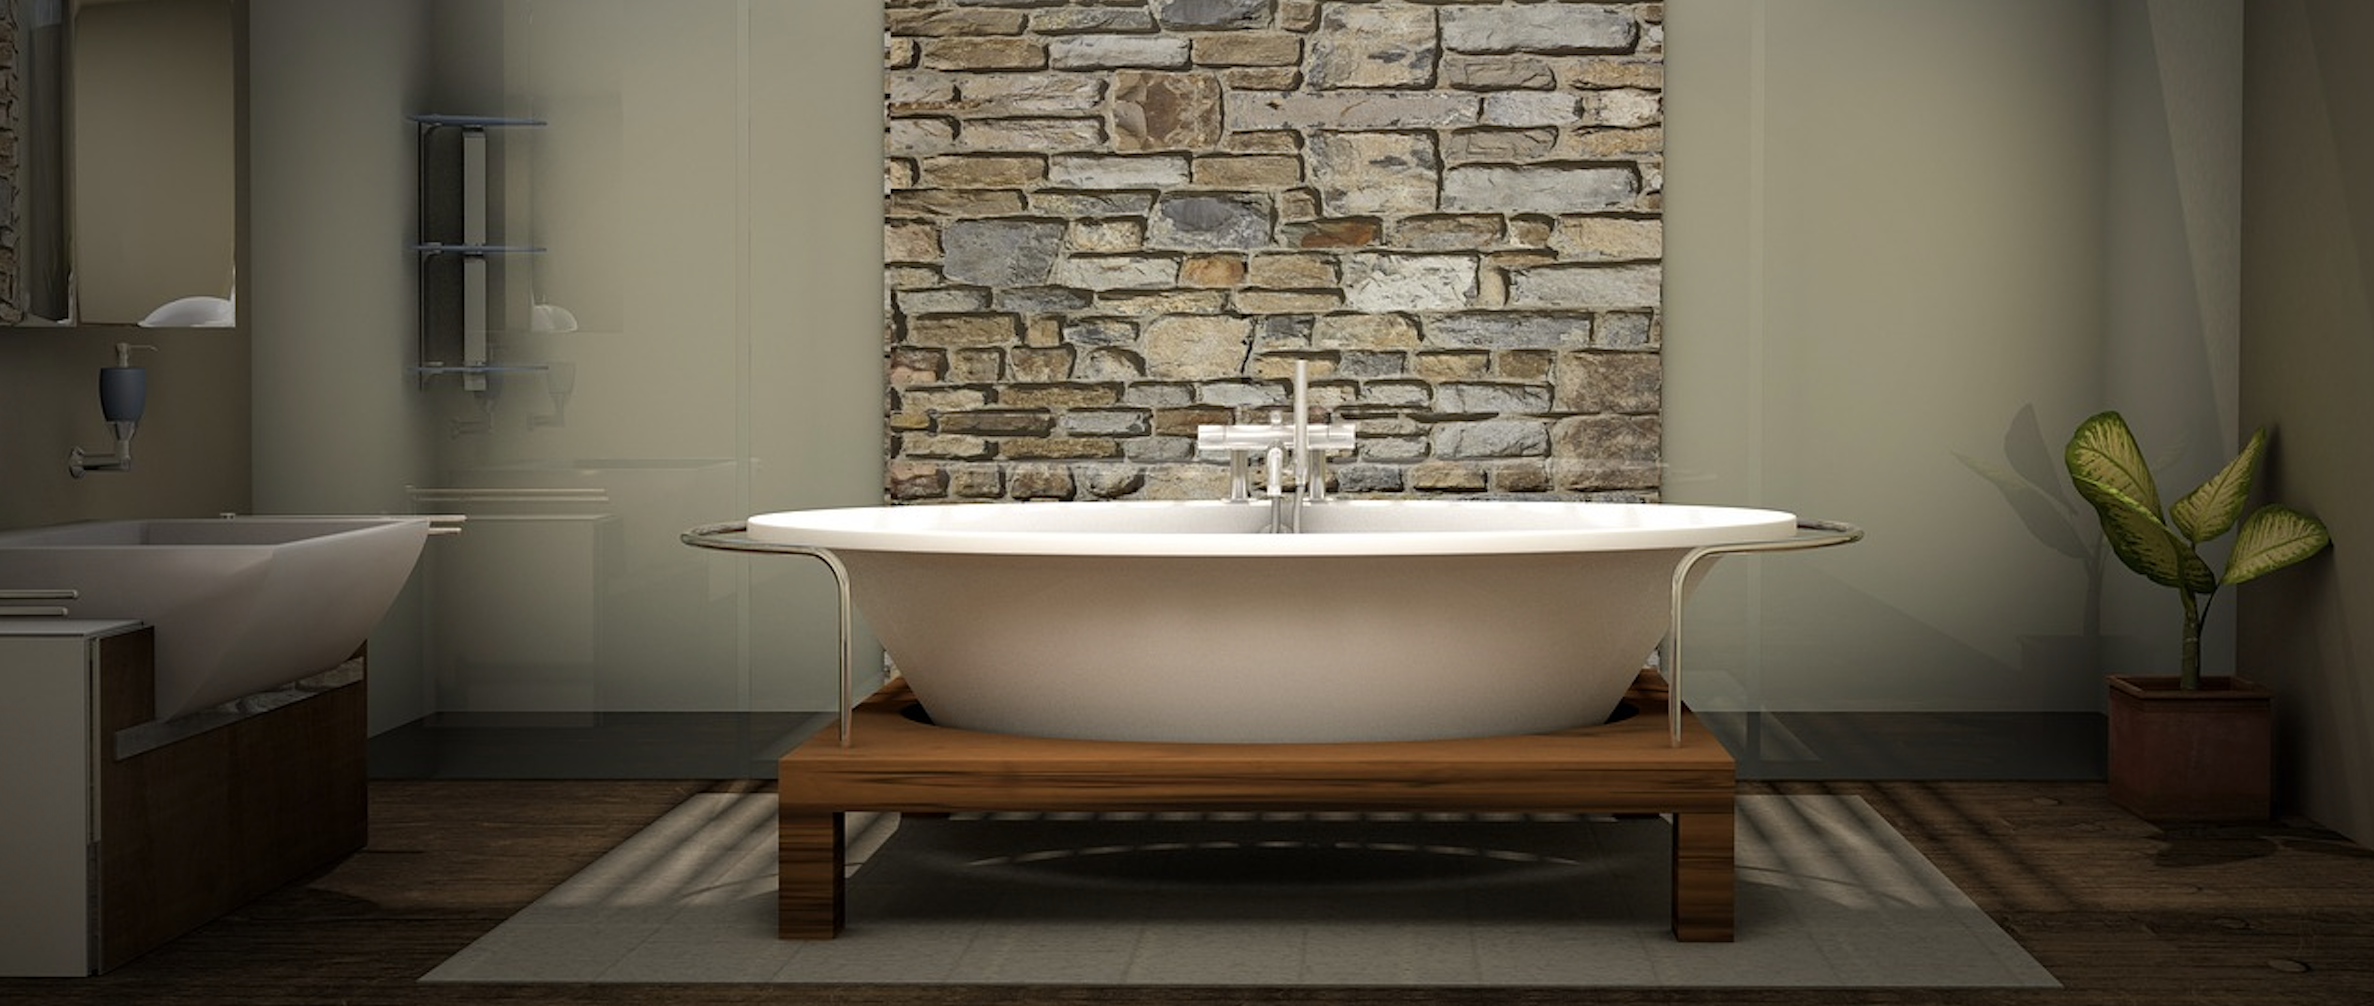
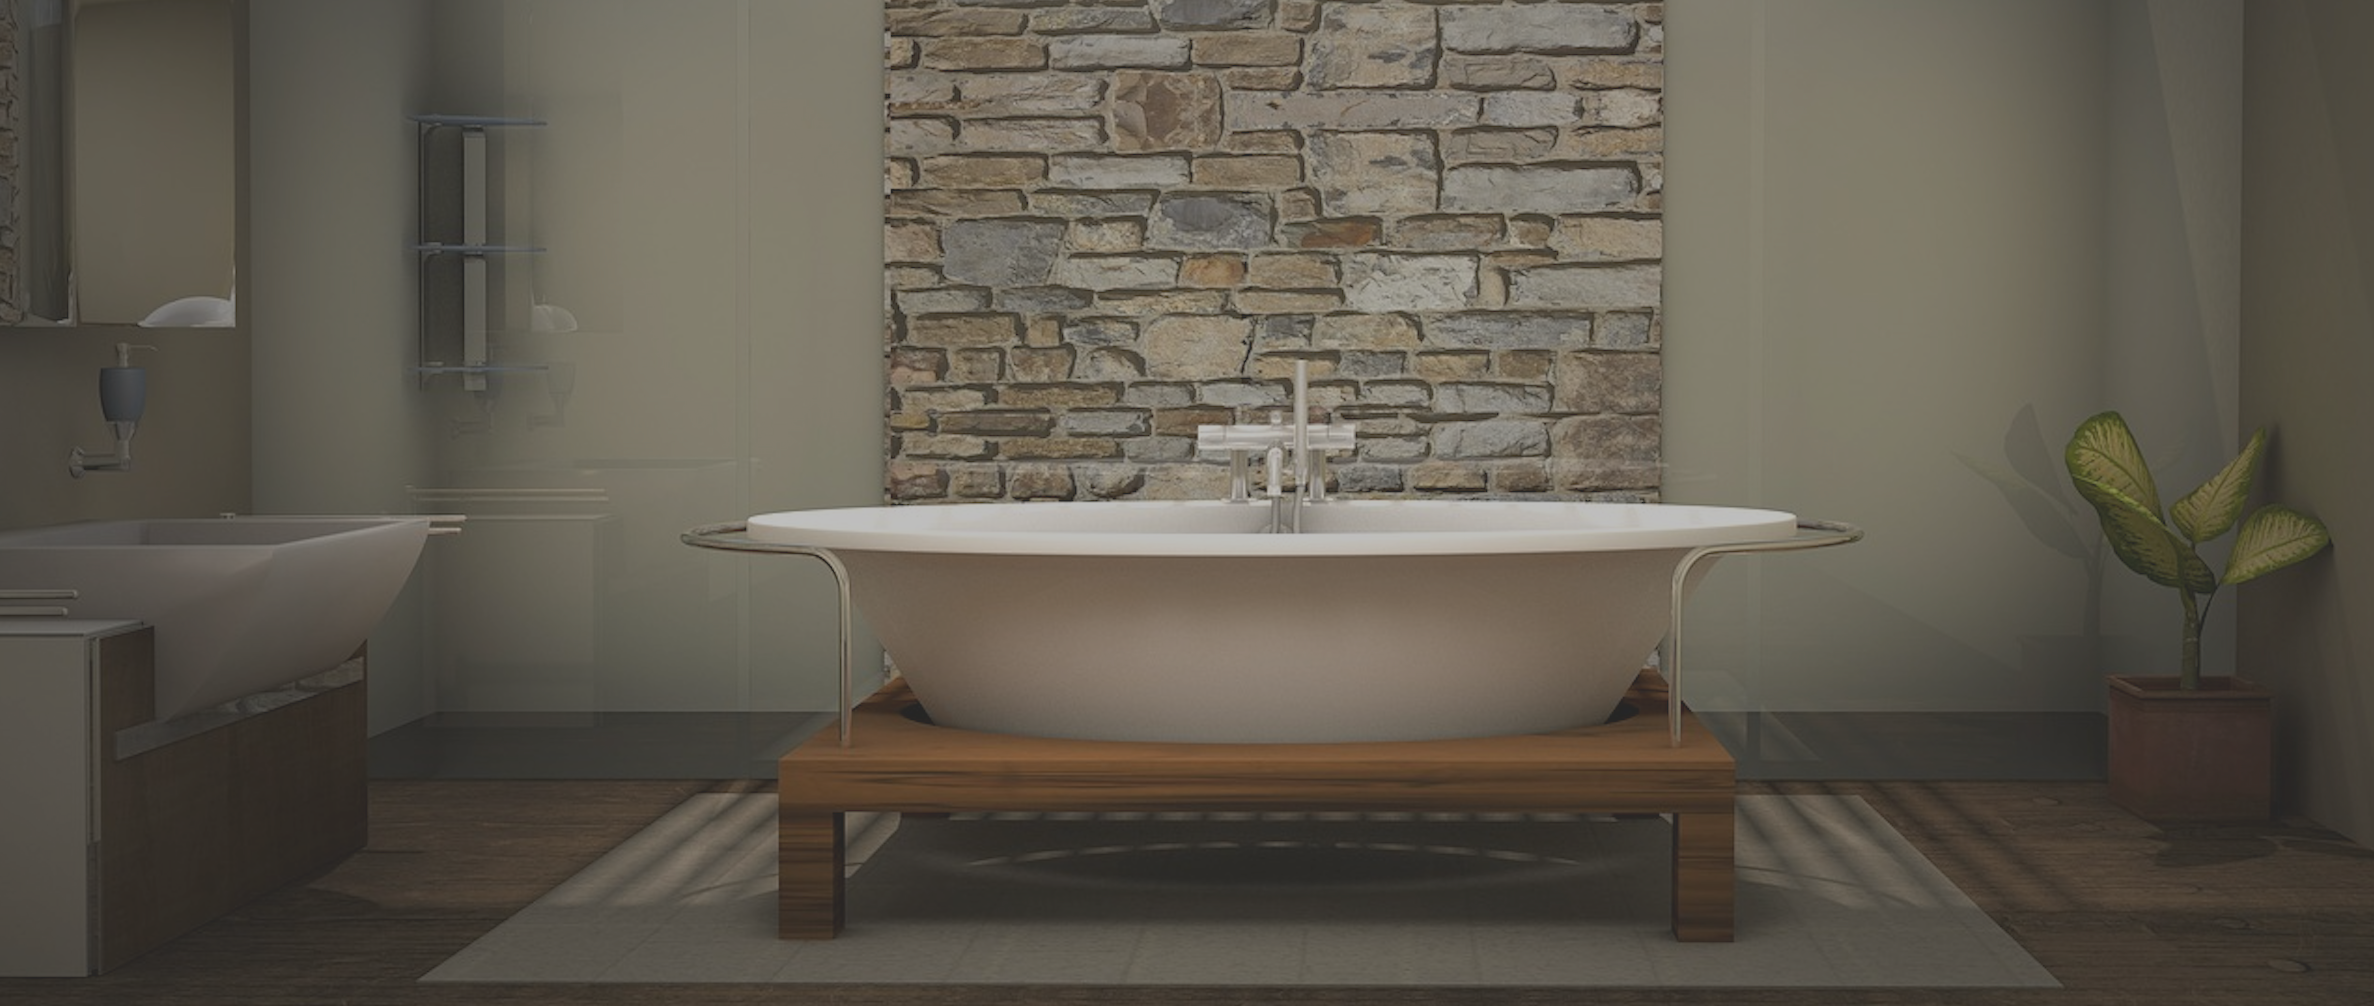
opacity on image color overlay not available for safari on ios so color overlay added to raw image

diff --git a/src/styles/Home.css b/src/styles/Home.css
@@ -9,11 +9,7 @@
   font-weight: 500;
   text-align: center;
   border-bottom: 1px solid #cecdcd;
-  background-blend-mode: overlay;
-  -moz-background-color: rgba(36, 35, 62, 0.4);
-  -webkit-background-color: rgba(36, 35, 62, 0.4);
-  background-color: rgba(36, 35, 62, 0.4);
-  background-image: url('.././images/mobile_bathroom.avif');
+  background-image: url('.././images/mobile_bathroom_intro.png');
   background-size: cover;
 }
 
@@ -134,8 +130,8 @@
     font-weight: 500;
     text-align: center;
     border-bottom: 1px solid #cecdcd;
-    background-blend-mode: overlay;
-    background-color: rgba(93, 92, 89, 0.4);
+    /* background-blend-mode: overlay;
+    background-color: rgba(93, 92, 89, 0.4); */
     background-image: url('.././images/desktop_bathroom.png');
     background-size: cover;
   }

diff --git a/src/styles/Services.css b/src/styles/Services.css
@@ -1,11 +1,7 @@
 .services-intro-container {
   margin: 0 auto;
   text-align: center;
-  background-blend-mode: overlay;
-  background-color: rgba(255, 255, 255, 0.9);
-  -moz-background-color: rgba(255, 255, 255, 0.9);
-  -webkit-background-color: rgba(255, 255, 255, 0.9);
-  background-image: url('.././images/mobile_bathroom.avif');
+  background-image: url('.././images/mobile_bathroom_services.png');
   background-size: cover;
   border-bottom: 0.2rem solid #f47323;
 }
@@ -135,8 +131,6 @@
     height: 35rem;
     display: grid;
     grid-template-columns: 1fr 1fr 1fr;
-    background-blend-mode: overlay;
-    background-color: rgba(93, 92, 89, 0.4);
     background-image: url('.././images/desktop_bathroom.png');
     background-size: cover;
     border-bottom: 1px solid #cecdcd;

diff --git a/src/styles/Gallery.css b/src/styles/Gallery.css
@@ -1,9 +1,5 @@
 .heading-container {
-  background-blend-mode: overlay;
-  background-color: rgba(255, 255, 255, 0.9);
-  -moz-background-color: rgba(255, 255, 255, 0.9);
-  -webkit-background-color: rgba(255, 255, 255, 0.9);
-  background-image: url('.././images/surface.jpeg');
+  background-image: url('.././images/surface.png');
   padding: 2rem 0;
   display: flex;
   flex-direction: column;
